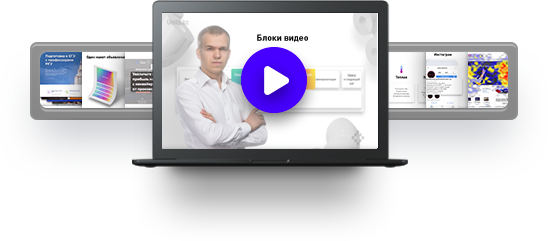
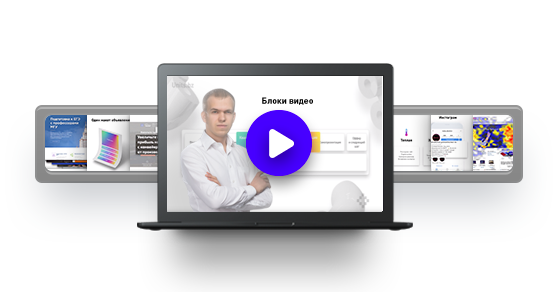
ааа

diff --git a/css/style.css b/css/style.css
@@ -78,23 +78,16 @@ body {
 }
 
 .header__box {
-  width: 557px;
-  height: 293px;
-  background-color: rgba(40, 40, 40, 0.6);
+  max-width: 557px;
+  max-height: 293px;
+  background-color: #e6e6e6;
   border-radius: calc(293px/2);
 }
-
-.box__video {
-  background-image: url(../img/video_lesson.png);
-  background-repeat: no-repeat;
-  background-position: center 62px;
+.box__thumb {
+  max-width: 100%;
 }
 
-.box__diary {
-  background-image: url(../img/diary.png);
-  background-repeat: no-repeat;
-  background-position: center 62px;
-}
+
 
 .header__desc {
   max-width: 350px;
@@ -110,6 +103,7 @@ body {
 .team {
   background: url(../img/intro-bg.png) no-repeat center/cover;
   padding-top: 140px;
+  padding-bottom: 100px;
 }
 .team__wrapper {
   max-width: 1770px;
@@ -120,7 +114,7 @@ body {
   display: flex;
   flex-wrap: wrap;
   justify-content: space-between;
-  margin-bottom: 100px;
+  margin-bottom: 110px;
 }
 .developers__title {
   color: #282828;
@@ -128,20 +122,17 @@ body {
   flex-basis: 370px;
 }
 .developers__leader {
-  display: flex;
-  flex-wrap: wrap;
   flex-basis: 778px;
-  justify-content: space-between;
   position: relative;
- 
 }
 .developers__leader::before {
-  content: url(../img/evangelist.png);
-  display: block;
-  width: 100%;
+  content: '';
+  background: url(../img/evangelist.png);
+  width: 526px;
+  height: 722px;
   position: absolute;
-  top: 0;
-  left: -600px;
+  top: -30px;
+  left: -468px;
   z-index: 1;
 }
 .leader__case {
@@ -149,7 +140,7 @@ body {
 }
 .leader__case-title {
   font-size: 32px;
-  margin-bottom: 65px;
+  margin-bottom: 50px;
 }
 .leader__case-subtitle {
   font-family: 'DIN Pro';
@@ -161,12 +152,12 @@ body {
   justify-content: space-between;
 }
 .events-list-item {
-  margin-bottom: 24px;
+  margin-bottom: 10px;
   position: relative;
   padding-left: 20px;
 }
 .events-list-item:first-child {
-  margin-bottom: 40px;
+  margin-bottom: 22px;
   padding: 0;
   max-width: 294px;
 }
@@ -205,12 +196,13 @@ body {
 }
 .methods {
 position: relative;
-background: linear-gradient(to right, #f8f8f8 50%, transparent);
+background: linear-gradient(to right, #f8f8f8 75%, transparent);
 z-index: 2;
-padding-top: 70px;
-padding-left: 86px;
+padding-top: 50px;
+padding-left: 76px;
 padding-bottom: 86px;
-max-width: 1605px;
+max-width: 1531px;
+margin-right: 400px;
 }
 .methods__title {
   font-size: 32px;
@@ -223,10 +215,10 @@ max-width: 1605px;
   display: flex;
   flex-wrap: wrap;
   justify-content: space-between;
-  max-width: 720px;
+  max-width: 670px;
 }
 .methods__list {
-  flex-basis: 340px;
+  flex-basis: 310px;
 }
 .method__list-item {
   line-height: 42px;
@@ -249,5 +241,126 @@ max-width: 1605px;
 .methods__list:first-child li:nth-child(2)::before {
   background-position: left 20px;
 }
+.wrapp__full {
+  margin: 0 auto;
+  max-width: 2020px;
+  position: relative;
+}
+.team__pct {
+  position: absolute;
+  right: 0;
+  bottom: -100px;
+  z-index: 5;
+}
+@media screen and (max-width: 1600px) {
+  .header__blocks {
+    justify-content: space-around;
+  }
+  .team {
+    padding-top: 50px;
+  }
+  .developers__title {
+    font-size: 45px;
+    margin-bottom: 20px;
+  }
+  .developers {
+    display: block;
+  }
+
+  .developers__leader::before {
+    display: none;
+  }
+  .leader__case {
+    display: block;
+  }
+  .leader__case-title {
+    margin-bottom: 25px;
+  }
+  .case__company {
+    position: relative;
+  }
+  .case__company::before {
+      content: '';
+      background: url(../img/evangelist.png);
+      width: 526px;
+      height: 722px;
+      position: absolute;
+      top: 0;
+      left: -390px;
+      z-index: 1;
+    }
+
+    .team__pct {
+      display: none;
+    }
+    .methods {
+      background-color: #f8f8f8;
+      max-width: 100%;
+      margin: 0;
+      background: #f8f8f8 url(../img/people.png) bottom right/34% no-repeat;
+     padding-left: 30px;
+    }
+  }
+  @media screen and (max-width: 1023px) {
+    .header {
+      padding-top: 30px;
+      padding-bottom: 30px;
+    }
+    .header__block:first-child {
+      margin-bottom: 30px;
+    }
+    .header__title {
+      font-size: 30px;
+      line-height: 40px;
+      margin-bottom: 30px;
+    }
+    .header__blocks {
+      display: block;
+      width: 100%;
+      height: auto;
+    }
+    .header__box {
+      max-width: 100%;
+      max-height: auto;
+      text-align: center;
+    }
+    .developers__title {
+      font-size: 30px;
+    }
+    .leader__case-title {
+      font-size: 20px;
+    }
+    .leader__case-subtitle {
+      font-size: 18px;
+    }
+    .case__company::before {
+      width: 300px;
+      height: 500px;
+      background-size: contain;
+      background-position: center;
+      background-repeat: no-repeat;
+      left: -292px;
+    }
+    .k__50-link {
+      margin-bottom: 20px;
+    }
+    .methods {
+      padding-top: 20px;
+      padding-bottom: 20px;
+      background: #f8f8f8 url(../img/people.png) bottom right/48% no-repeat;
+    }
+    .methods__title {
+      font-size: 20px;
+    }
+    .methods__lists {
+      font-size: 18px;
+      display: block;
+      max-width: 100%;
+    }
+    .method__list-item {
+      margin-bottom: 18px;
+      line-height: 20px;
+    }
+  }
 
 

diff --git a/index.html b/index.html
@@ -19,6 +19,9 @@
             <div class="header__blocks">
                 <div class="header__block">
                     <div class="header__box box__video">
+                        <div class="box__pic">
+                            <img src="./img/video_lesson.png" alt="video__lesson" class="box__thumb">
+                        </div>
                     </div>
                     <p class="header__desc">
                         Видео-урок от эксперта
@@ -26,7 +29,9 @@
                 </div>
                 <div class="header__block">
                     <div class="header__box box__diary">
-
+                        <div class="box__pic">
+                            <img src="./img/diary.png" alt="video__lesson" class="box__thumb">
+                        </div>
                     </div>
                     <p class="header__desc">
                         Тетрадь с шаблонами<br>
@@ -38,6 +43,7 @@
     </header>
     <main class="main">
         <section class="team">
+            <div class="wrapp__full">
             <div class="team__wrapper">
                 <div class="developers">
                     <h1 class="developers__title">
@@ -69,14 +75,14 @@
                                     <p>
                                         IT-евангелист компании
                                     </p>
-                                    <a href="#!" class="k__50-link">
+                                    <a href="https://k50.ru/"  target="_blank" class="k__50-link">
                                         <img src="./img/k-50.png" alt="k-50" class="k__50-thumb">
                                     </a>
                                     <p>Эксперт по обучению</p>
-                                    <a href="https:\\yandex.ru" class="yandex-link">
+                                    <a href="https:\\yandex.ru"  target="_blank" class="yandex-link">
                                         <img src="./img/yandex.png" alt="yandex" class="yandex-thumb">
                                     </a>
-                                    <a href="https:\\google.ru">
+                                    <a href="https://ads.google.com/intl/ru_ru/home/"  target="_blank">
                                         <img src="./img/google.png" alt="" class="google-thumb">
                                     </a>
                                 </div>
@@ -103,6 +109,10 @@
                     </div>
                 </div>
             </div>
+            <div class="team__pct">
+                <img src="./img/people.png" alt="team" class="team__tumb">
+            </div>
+        </div>
         </section>
     </main>
 </body>
